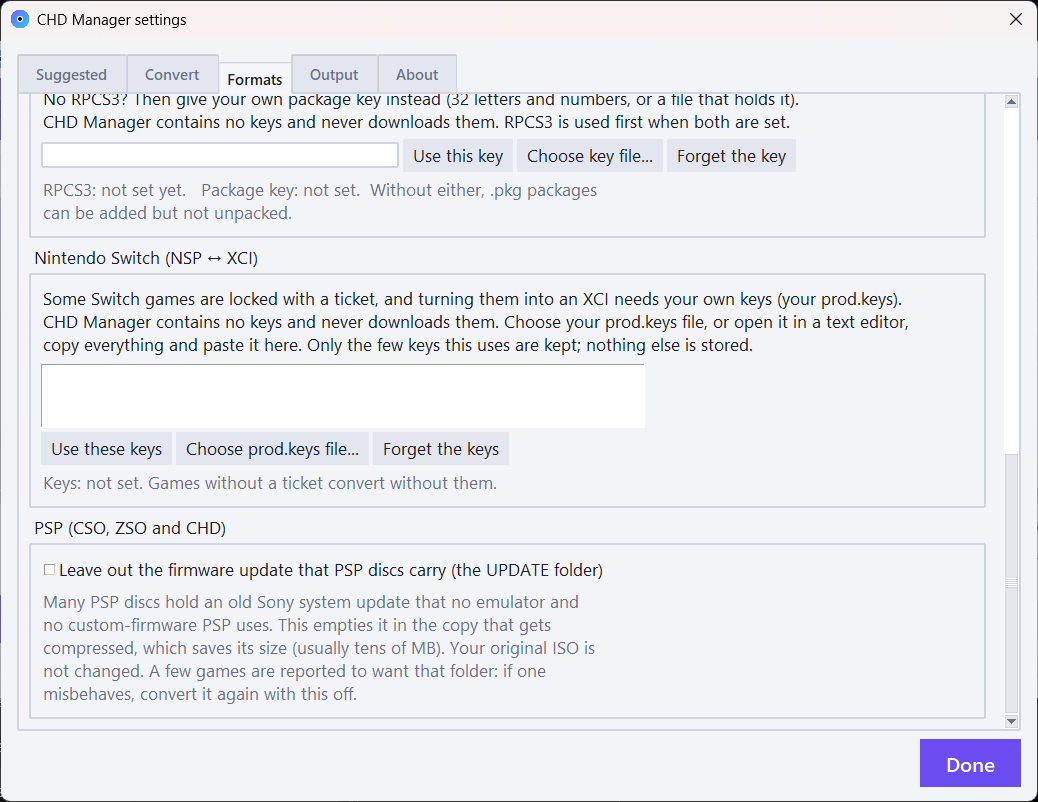
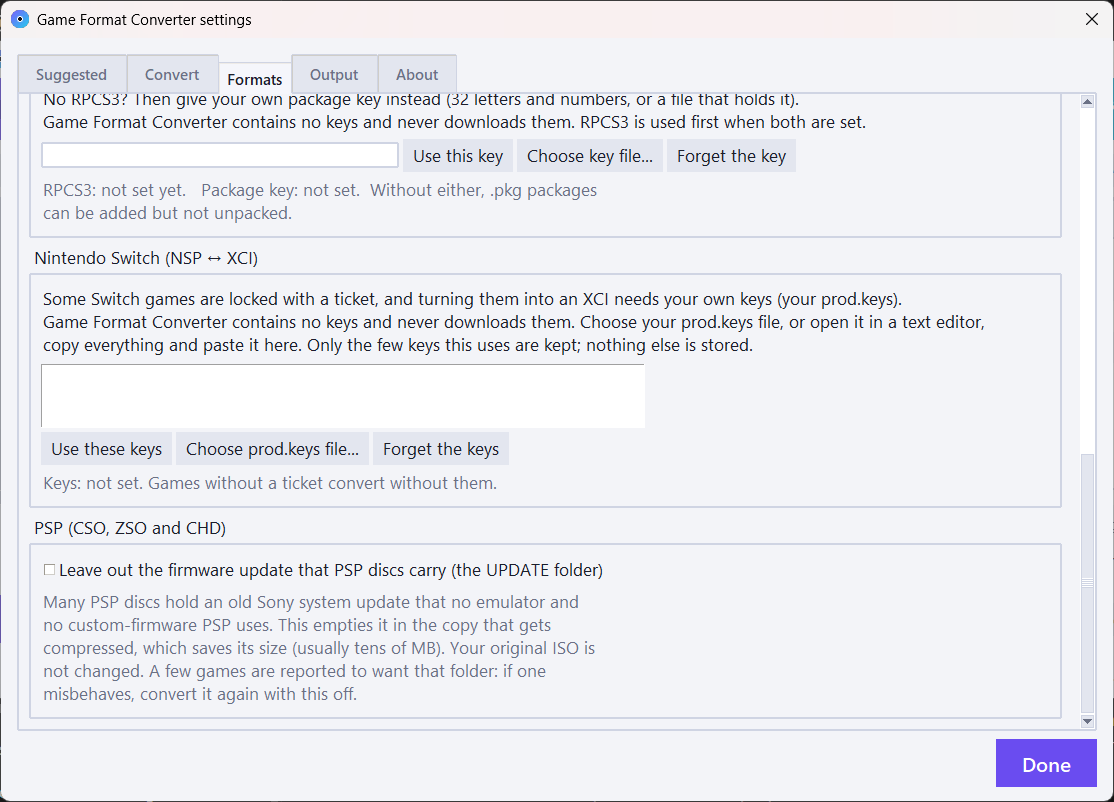
Rename to Game Format Converter (formerly CHD Manager): visible name only; exe, zip, repo and settings file names kept so existing updaters keep working; updater accepts the future names; old right-click menus are refreshed

diff --git a/README.md b/README.md
@@ -1,4 +1,6 @@
-# CHD Manager
+# Game Format Converter
+
+**Formerly CHD Manager.** It was renamed in 2.1.0 because it now converts far more than CHDs. Nothing else changed for you: your settings and keys carry over, and the in-program updater keeps working. The program's file is still called `CHD Manager.exe` and the download is still named `CHD-Manager-<version>-win64.zip`, so that updates from older versions find it.
 
 A friendly app that converts game disc images and game files from one format to another, and the front end for MAME's `chdman`. Add your files, pick what each one should become, and press Start. It works out what each file is, only offers conversions that can work, checks there is room on the drive before it starts, and verifies what it wrote.
 
@@ -6,12 +8,12 @@ It covers **CHD, PBP, CDI, VCD, CSO/ZSO, ECM, ISO, CUE/BIN, GDI** (PlayStation, 
 
 It is portable: one folder, nothing installed. CHD conversions are done by `chdman` from the [MAME](https://github.com/mamedev/mame) project; every other format is handled by the program's own code.
 
-![CHD Manager, dark theme](docs/screenshot-dark.png)
+![Game Format Converter, dark theme](docs/screenshot-dark.png)
 
 <details>
 <summary>Light theme and settings</summary>
 
-![CHD Manager, light theme](docs/screenshot-light.png)
+![Game Format Converter, light theme](docs/screenshot-light.png)
 
 ![The Formats page of the settings window](docs/screenshot-formats.png)
 
@@ -23,6 +25,7 @@ It is portable: one folder, nothing installed. CHD conversions are done by `chdm
 
 ## What's new in 2.1.0
 
+- **A new name:** CHD Manager is now Game Format Converter.
 - **Xbox 360:** ZAR (for Xenia), ISO and game folders, in every direction that makes sense. Xbox 360 download packages (the hex-named single files, such as Xbox Live Arcade and Games on Demand) are not discs, so they are refused with a plain explanation.
 - **Original Xbox:** a full 7.8 GB dump becomes a trimmed `.xiso.iso` that holds just the game; also game folders and CHD.
 - **PlayStation 3:** game folder to ISO and back, multiMAN split pieces joined, and `.pkg` packages unpacked and packed (with RPCS3 or with your own key; see [Keys](#keys-and-what-the-program-does-not-contain)).
@@ -81,14 +84,14 @@ Also: **rebuild a CD's error correction**, **extract the artwork from a PBP**, a
 ### Windows
 
 1. Get `CHD-Manager-<version>-win64.zip` from the [Releases](../../releases) page and unzip it anywhere.
-2. Run **CHD Manager.exe**.
+2. Run **CHD Manager.exe** (the program's file keeps its old name; see the top of this page).
 3. Click **Add Files** or **Add Folder** (or drag them in), check the Action column, and press **Start**.
 
 Windows 10/11, 64-bit. Python is not needed. Settings are saved in `chd_manager_settings.json` next to the exe.
 
 **About warnings:** the exe is not code-signed, so Windows SmartScreen may say "unknown publisher" (choose *More info, then Run anyway*) and some antivirus programs are suspicious of this kind of packaged Python program. If you would rather not run a binary, [run it from source](#run-from-source) or [build it yourself](#build-the-exe).
 
-**Right-click menu (optional):** *Settings, Output, Add the right-click menu* adds "Convert with CHD Manager", "Convert with CHD Manager to" and "Add to CHD Manager" for your user only, and *Remove the right-click menu* takes them out again. On Windows 11 they appear under *Show more options*.
+**Right-click menu (optional):** *Settings, Output, Add the right-click menu* adds "Convert with Game Format Converter", "Convert with Game Format Converter to" and "Add to Game Format Converter" for your user only, and *Remove the right-click menu* takes them out again. On Windows 11 they appear under *Show more options*.
 
 ### Linux (experimental)
 
@@ -136,8 +139,8 @@ If a PS2 game on a CD slightly exceeds the size limit, or anything else is detec
 
 The program is offline except for the update checks, each with its own on/off switch (chdman on the *Output* page of the settings window, the program on its *About* page):
 
-- At startup it asks GitHub for the latest MAME release number and the latest CHD Manager release. It never downloads anything by itself.
-- When you confirm a CHD Manager update it downloads the release from this repo, verifies its SHA-256, test-runs the new version, and only then replaces itself (keeping a copy of the old one to roll back to). When you confirm a chdman update it downloads the official release from `github.com/mamedev/mame`.
+- At startup it asks GitHub for the latest MAME release number and the latest Game Format Converter release. It never downloads anything by itself.
+- When you confirm a Game Format Converter update it downloads the release from this repo, verifies its SHA-256, test-runs the new version, and only then replaces itself (keeping a copy of the old one to roll back to). When you confirm a chdman update it downloads the official release from `github.com/mamedev/mame`.
 - Two optional downloads, each only on request and checked against a fixed checksum: the base PBP files for a real PSP (from [iPoPS](https://github.com/julianxhokaxhiu/iPoPS)) and a refreshed game list.
 
 ## Run from source
@@ -198,7 +201,7 @@ Everything below was run on Windows 11 with chdman 0.289 unless it says otherwis
 - **PS3:** packed packages were installed by RPCS3, but I did not launch a game from one; multiMAN pieces larger than 4 GB were only tried with made-up pieces.
 - **Xbox:** only Crazy Taxi 3 was tried in xemu; a rebuilt Xbox 360 ISO has no security data and is for emulators only. Xbox 360 ISO to ZAR works, but Xenia main does not read ZAR.
 - **Linux:** only Ubuntu 24.04 under WSL2. Not a Steam Deck, not macOS, not a real Dolphin or Nautilus right-click menu, and not the Linux self-update against a real release.
-- **Windows right-click menu:** the entries are registered and launch the program (checked through Windows' own verb mechanism), but I could not click the cascading "Convert with CHD Manager to" submenu.
+- **Windows right-click menu:** the entries are registered and launch the program (checked through Windows' own verb mechanism), but I could not click the cascading "Convert with Game Format Converter to" submenu.
 - Any file made by other programs for some formats (CISO, GCZ, WIA with purge compression, split WBFS, ECM from other tools), multi-track `.nrg`, multi-session images, PBPs on a PSP Go, Vita or PS Classic, and playing any game all the way through.
 
 ## Credits and license
@@ -211,4 +214,4 @@ Everything below was run on Windows 11 with chdman 0.289 unless it says otherwis
 - Built with help from Claude (Anthropic); designed and tested by Mr-Shizzy.
 - Unofficial: this project is not affiliated with Sony, Microsoft, Nintendo, Sega or any emulator named above. It includes no games, BIOS files, firmware, keys or other copyrighted game content. Use it only with games you own.
 
-CHD Manager is free software under the [GNU General Public License, version 3 or (at your option) any later version](LICENSE). The Windows release also bundles chdman, Python, Tcl/Tk and zstandard, whose licenses are in [THIRD_PARTY_NOTICES.txt](THIRD_PARTY_NOTICES.txt).
+Game Format Converter is free software under the [GNU General Public License, version 3 or (at your option) any later version](LICENSE). The Windows release also bundles chdman, Python, Tcl/Tk and zstandard, whose licenses are in [THIRD_PARTY_NOTICES.txt](THIRD_PARTY_NOTICES.txt).
